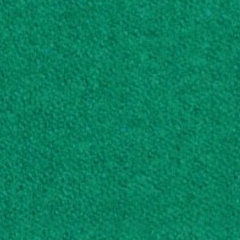
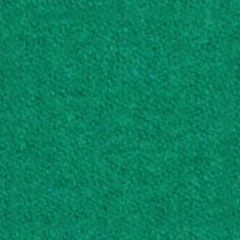
minor adjustements to card covers

diff --git a/src/main/java/gui/Layer_2.java b/src/main/java/gui/Layer_2.java
@@ -24,7 +24,8 @@ public class Layer_2 {
             (tile_x >> 2) + (tile >> 3),
             tile_y - (tile >> 3) + (tile >> 5)
     };
-    private static String coverImageFileAddress = "src\\main\\resources\\cardCover.png";
+    private static String addressTree = "src\\main\\resources\\cardCover.png";
+    private static int cardCoverImageNumber = 4;
 
     public Layer_2() {
         panel2 = new JPanel();
@@ -36,34 +37,42 @@ public class Layer_2 {
             panel2Left.setBounds(panel2LeftBounds[0], panel2LeftBounds[1], panel2LeftBounds[2], panel2LeftBounds[3]);
             panel2Left.setLayout(new GridLayout(cardGridSize[0], cardGridSize[1]));
             panel2Left.setOpaque(false);
-            makeCardButtons();
+            makeCardLabels();
             panel2.add(panel2Left);
-        }   //panel2Left    : lewy panel (buttons)
+        }
 
         {
             panel2Right.setBounds(panel2RightBounds[0], panel2RightBounds[1], panel2RightBounds[2], panel2RightBounds[3]);
             panel2Right.setLayout(null);
             panel2Right.setOpaque(false);
-//            panel2Right.setBackground(new Color(255, 0, 255, 64));
             panel2.add(panel2Right);
-        }   //panel2Right   : prawy panel (buttons)
-    }   //layer1: panel2: graphics
+        }
+    }
 
     public static JPanel makeLayer_2() {
         new Layer_2();
         return panel2;
     }
 
-    public void makeCardButtons() {
+    public void makeCardLabels() {
         Random random = new Random();
 
         for (int i = 0; i < cardGridSize[0] * cardGridSize[1]; i++) {
+            Integer fileNumber = random.nextInt(cardCoverImageNumber);
+            String coverImageFileAddress = addressTree.replace(
+                    addressTree.substring(addressTree.length() - 4,
+                            addressTree.length() - 3),
+                    (Integer.toString(fileNumber) + "."));
         int size_x = panel2LeftBounds[2]/cardGridSize[0];
         int size_y = panel2LeftBounds[3]/cardGridSize[1];
-            Image image = new ImageIcon(coverImageFileAddress).getImage().getScaledInstance(size_x-(size_x>>4),size_y-(size_y>>2) , Image.SCALE_SMOOTH);
+        int rescale = (size_x/size_y)>1?size_y:size_x;
+        Image image = new ImageIcon(coverImageFileAddress).getImage().getScaledInstance(rescale-(rescale>>2),rescale-(rescale>>2) , Image.SCALE_SMOOTH);
             JLabel label = new JLabel(new ImageIcon(image));
-
             panel2Left.add(label);
+
         }
     }
 }
+
+//      TODO :  arbitrary angle rotation, and dislocation of cards within labels
+//      TODO : graphic improvements (retouche: color balance, shadow, dirt pattern textures, randomization)

diff --git a/src/main/java/gui/MainFrame.java b/src/main/java/gui/MainFrame.java
@@ -4,8 +4,11 @@ import javax.swing.*;
 import java.awt.*;
 import java.util.ArrayList;
 
+import static com.sun.javafx.scene.control.skin.Utils.getResource;
+
 public class MainFrame extends JPanel {
 
+    private static String gameIconImage = "F:\\_Java_Projects_IntelliJ\\Memory\\src\\main\\resources\\gameIcon.png";
     private static Toolkit kit = Toolkit.getDefaultToolkit();
     private static Dimension screenSize = kit.getScreenSize();
     public static int tile_x = screenSize.width;
@@ -32,8 +35,6 @@ public class MainFrame extends JPanel {
         add(layeredPane);
     }
 
-
-
     public static void createAndShowGUI() {
 
         JFrame frame = new JFrame();
@@ -41,6 +42,7 @@ public class MainFrame extends JPanel {
         frame.setDefaultCloseOperation(JFrame.EXIT_ON_CLOSE);
         JComponent newContentPane = new MainFrame();
         newContentPane.setOpaque(true);
+        frame.setIconImage(new ImageIcon(gameIconImage).getImage());
         frame.setContentPane(newContentPane);
         frame.pack();
         frame.setVisible(true);
@@ -52,3 +54,5 @@ public class MainFrame extends JPanel {
         return new Dimension(tile_x, tile_y);
     }
 }
+
+//      TODO : fullscreen

diff --git a/src/main/java/gui/Layer_1.java b/src/main/java/gui/Layer_1.java
@@ -1,9 +1,7 @@
 package gui;
 
 import javax.swing.*;
-
 import java.awt.*;
-
 import static gui.MainFrame.*;
 
 public class Layer_1 {
@@ -40,7 +38,7 @@ public class Layer_1 {
             panel1Left.setOpaque(true);
             panel1Left.setBackground(new Color(255, 255, 0, 64));
             panel1.add(panel1Left);
-        }*/   //panel1Left    : lewy panel (graphics)   disabled
+        }*/   //panel1Left    :  (graphics)   disabled
 
         {
             JPanel panel1Right = new JPanel();
@@ -52,8 +50,8 @@ public class Layer_1 {
             JLabel label = new JLabel(new ImageIcon(sheet));
             label.setBounds(panel1RightBounds[0], panel1RightBounds[1], panel1RightBounds[2], panel1LeftBounds[3]);
             panel1.add(panel1Right.add(label));
-        }   //panel1Right   : prawy panel (graphics)    disabled
-    }   //layer1: panel1: graphics
+        }
+    }
 
     public static JPanel makeLayer_1() {
         new Layer_1();

diff --git a/src/main/java/gui/Layer_0.java b/src/main/java/gui/Layer_0.java
@@ -16,7 +16,6 @@ public class Layer_0 /*extends JPanel */{
         panel0 = new JPanel();
         panel0.setBounds(0, 0, tile_x, tile_y);
         panel0.setLayout(null);
-//        String addressTree = "src\\main\\resources\\mainBackground.png";
         Random random = new Random();
 
         for (int i = 0; i < tile_x; i += imageDimension) {
@@ -38,3 +37,5 @@ public class Layer_0 /*extends JPanel */{
         return panel0;
     }
 }
+
+//  TODO :      randomization of textures
